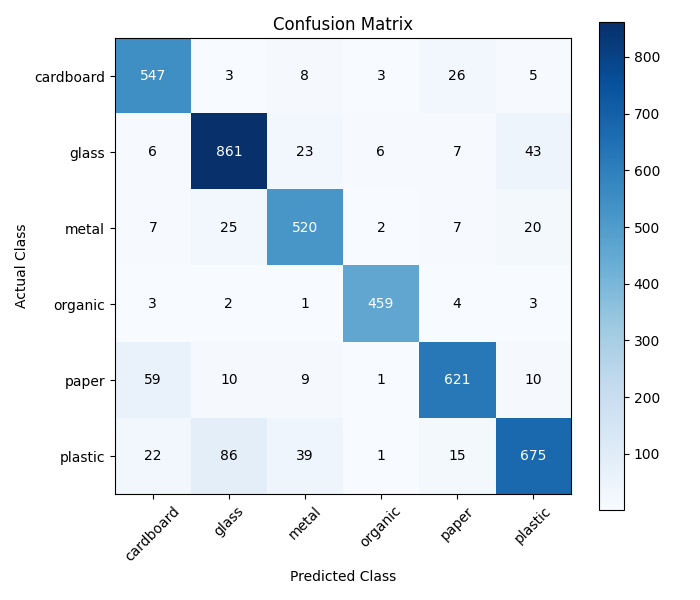
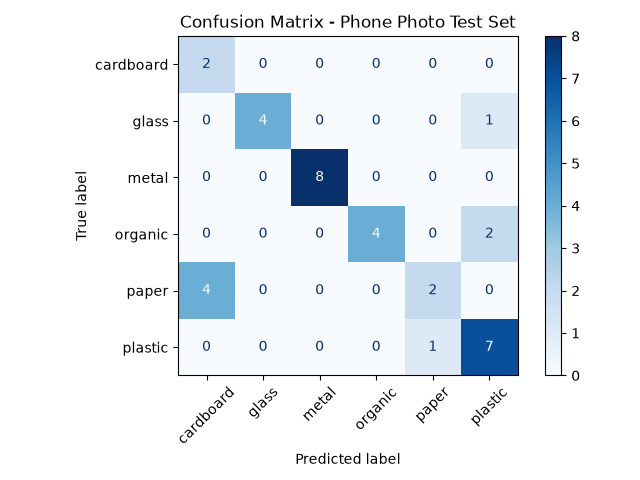
Implement model evaluation metrics (#15)

diff --git a/ml/evaluate_model.py b/ml/evaluate_model.py
@@ -1,80 +1,75 @@
+
 import numpy as np
 import tensorflow as tf
 from tensorflow import keras
 import matplotlib.pyplot as plt
 from pathlib import Path
-from sklearn.metrics import accuracy_score, classification_report
-
-
-# Folder where this Python file is located
-ML_DIR = Path(__file__).parent
+from sklearn.metrics import (
+    accuracy_score,
+    classification_report,
+    confusion_matrix,
+    ConfusionMatrixDisplay,
+)
 
 # Paths
-DATASET_PATH = ML_DIR / "dataset_mwcd"
-MODEL_PATH = ML_DIR / "waste_classifier_mwcd.keras"
+ML_DIR = Path(__file__).parent
+TEST_DATASET_PATH = ML_DIR / "test_dataset"
+MODEL_PATH = ML_DIR / "waste_classifier_mwcd_finetuned.keras"
+RESULTS_PATH = ML_DIR / "results"
 
 IMAGE_SIZE = (224, 224)
 BATCH_SIZE = 32
-SEED = 123
 
+# Class order must match the model's training classes
+class_names = [
+    "cardboard",
+    "glass",
+    "metal",
+    "organic",
+    "paper",
+    "plastic",
+]
 
-# Load validation data
-validation_dataset = keras.utils.image_dataset_from_directory(
-    DATASET_PATH,
-    validation_split=0.2,
-    subset="validation",
-    seed=SEED,
+# Load the phone-photo dataset.
+# Folder names provide the actual labels for each image.
+test_dataset = keras.utils.image_dataset_from_directory(
+    TEST_DATASET_PATH,
+    class_names=class_names,
     image_size=IMAGE_SIZE,
-    batch_size=BATCH_SIZE
+    batch_size=BATCH_SIZE,
+    shuffle=False,
 )
 
-class_names = validation_dataset.class_names
+# Load the trained model
+model = keras.models.load_model(MODEL_PATH)
 
+print("Model loaded successfully.")
 print("Classes:", class_names)
 
-
-# Load trained model
-model = keras.models.load_model(
-    MODEL_PATH
-)
-
-
-# Lists to store correct labels and model predictions
+# Collect actual labels and predictions
 actual_labels = []
 predicted_labels = []
 
+for images, labels in test_dataset:
+    probabilities = model.predict(images, verbose=0)
+    predictions = np.argmax(probabilities, axis=1)
 
-# Go through validation images
-for images, labels in validation_dataset:
+    actual_labels.extend(labels.numpy().tolist())
+    predicted_labels.extend(predictions.tolist())
 
-    predictions = model.predict(
-        images,
-        verbose=0
-    )
+actual_labels = np.array(actual_labels)
+predicted_labels = np.array(predicted_labels)
 
-    predictions = np.argmax(
-        predictions,
-        axis=1
-    )
+# Calculate overall metrics
+accuracy = accuracy_score(actual_labels, predicted_labels)
 
-    actual_labels.extend(
-        labels.numpy()
-    )
+print("\nEvaluation Results")
+print("==================")
+print(f"Number of images: {len(actual_labels)}")
+print(f"Overall accuracy: {accuracy * 100:.2f}%")
 
-    predicted_labels.extend(
-        predictions
-    )
-
-# Calculate overall evaluation metrics
-accuracy = accuracy_score(
-    actual_labels,
-    predicted_labels
-)
-
-print("\nOverall Evaluation Metrics:")
-print(f"Accuracy: {accuracy * 100:.2f}%")
-
-print("\nPrecision, Recall, and F1-Score:")
+print("\nPer-Class Precision, Recall, and F1-Score")
+print("=========================================")
 print(
     classification_report(
         actual_labels,
@@ -82,128 +77,51 @@ print(
         labels=list(range(len(class_names))),
         target_names=class_names,
         zero_division=0,
-        digits=4
+        digits=4,
     )
 )
 
-# Create confusion matrix
-matrix = tf.math.confusion_matrix(
+# Create results folder
+RESULTS_PATH.mkdir(parents=True, exist_ok=True)
+
+# Confusion matrix
+matrix = confusion_matrix(
     actual_labels,
     predicted_labels,
-    num_classes=len(class_names)
-).numpy()
+    labels=list(range(len(class_names))),
+)
 
-
-print("\nConfusion Matrix:")
+print("\nConfusion Matrix")
 print(matrix)
 
-
-# Calculate accuracy for each class
-print("\nPer-Class Accuracy:")
-
-accuracies = []
-
-for i in range(len(class_names)):
-
-    correct = matrix[i][i]
-    total = matrix[i].sum()
-
-    accuracy = (
-        correct / total
-    ) * 100
-
-    accuracies.append(accuracy)
-
-    print(
-        class_names[i],
-        f"{accuracy:.2f}%"
-    )
-
-
-# Create folder for result images
-RESULTS_PATH = ML_DIR / "results"
-RESULTS_PATH.mkdir(exist_ok=True)
-
-
-# Create and save per-class accuracy chart
-plt.figure(figsize=(8, 5))
-
-plt.bar(
-    class_names,
-    accuracies
+display = ConfusionMatrixDisplay(
+    confusion_matrix=matrix,
+    display_labels=class_names,
 )
+display.plot(cmap="Blues", xticks_rotation=45)
+plt.title("Confusion Matrix - Phone Photo Test Set")
+plt.tight_layout()
+plt.savefig(RESULTS_PATH / "confusion_matrix.png")
+plt.close()
 
+# Per-class accuracy: correct predictions / actual images in each class
+class_accuracies = []
+
+for i, class_name in enumerate(class_names):
+    total = matrix[i].sum()
+    correct = matrix[i, i]
+    class_accuracy = correct / total * 100 if total else 0.0
+    class_accuracies.append(class_accuracy)
+    print(f"{class_name}: {class_accuracy:.2f}% ({correct}/{total})")
+
+plt.figure(figsize=(8, 5))
+plt.bar(class_names, class_accuracies)
 plt.xlabel("Class")
 plt.ylabel("Accuracy (%)")
-plt.title("Per-Class Accuracy")
-
+plt.title("Per-Class Accuracy - Phone Photo Test Set")
 plt.ylim(0, 100)
-
 plt.tight_layout()
-
-plt.savefig(
-    RESULTS_PATH / "per_class_accuracy.png"
-)
-
+plt.savefig(RESULTS_PATH / "per_class_accuracy.png")
 plt.close()
 
-
-# Create and save confusion matrix image
-plt.figure(figsize=(7, 6))
-
-plt.imshow(
-    matrix,
-    cmap="Blues"
-)
-
-plt.colorbar()
-
-plt.title("Confusion Matrix")
-plt.xlabel("Predicted Class")
-plt.ylabel("Actual Class")
-
-plt.xticks(
-    range(len(class_names)),
-    class_names,
-    rotation=45
-)
-
-plt.yticks(
-    range(len(class_names)),
-    class_names
-)
-
-
-# Change number color depending on background
-threshold = matrix.max() / 2
-
-for i in range(len(class_names)):
-
-    for j in range(len(class_names)):
-
-        if matrix[i][j] > threshold:
-            text_color = "white"
-        else:
-            text_color = "black"
-
-        plt.text(
-            j,
-            i,
-            matrix[i][j],
-            ha="center",
-            va="center",
-            color=text_color
-        )
-
-
-plt.tight_layout()
-
-plt.savefig(
-    RESULTS_PATH / "confusion_matrix.png"
-)
-
-plt.close()
-
-
-print("\nResult images saved in:")
-print(RESULTS_PATH)
+print(f"\nResult images saved in: {RESULTS_PATH}")

diff --git a/ml/results/evaluation_results.md b/ml/results/evaluation_results.md
@@ -1,0 +1,70 @@
+# Model Evaluation Results
+
+## Overview
+
+The evaluation script was run on 35 labelled images from the test dataset to assess the performance of the trained waste classification model.
+
+- **Model:** Fine-tuned MobileNetV2
+- **Number of test images:** 35
+- **Number of classes:** 6
+- **Image size:** 224 × 224 pixels
+- **Evaluation script:** `ml/evaluate_model.py`
+
+## Overall Evaluation Metrics
+
+| Metric | Result |
+|---|---:|
+| Accuracy | 77.14% |
+| Macro precision | 78.33% |
+| Macro recall | 77.92% |
+| Macro F1-score | 73.52% |
+| Weighted precision | 83.62% |
+| Weighted recall | 77.14% |
+| Weighted F1-score | 77.52% |
+
+The model correctly classified 27 out of 35 test images.
+
+## Per-Class Results
+
+| Class | Correct Predictions | Total Images | Accuracy |
+|---|---:|---:|---:|
+| Cardboard | 2 | 2 | 100.00% |
+| Glass | 4 | 5 | 80.00% |
+| Metal | 8 | 8 | 100.00% |
+| Organic | 4 | 6 | 66.67% |
+| Paper | 2 | 6 | 33.33% |
+| Plastic | 7 | 8 | 87.50% |
+
+## Confusion Matrix
+
+Rows represent actual classes, and columns represent predicted classes. Class order: cardboard, glass, metal, organic, paper, plastic.
+
+| Actual / Predicted | Cardboard | Glass | Metal | Organic | Paper | Plastic |
+|---|---:|---:|---:|---:|---:|---:|
+| Cardboard | 2 | 0 | 0 | 0 | 0 | 0 |
+| Glass | 0 | 4 | 0 | 0 | 0 | 1 |
+| Metal | 0 | 0 | 8 | 0 | 0 | 0 |
+| Organic | 0 | 0 | 0 | 4 | 0 | 2 |
+| Paper | 4 | 0 | 0 | 0 | 2 | 0 |
+| Plastic | 0 | 0 | 0 | 0 | 1 | 7 |
+
+## Observations
+
+- Metal achieved 100% accuracy on 8 test images.
+- Cardboard achieved 100% accuracy on 2 test images; the small sample size limits this result.
+- Paper had the lowest accuracy at 33.33%. Four paper images were classified as cardboard.
+- Organic achieved 66.67% accuracy, with two images classified as plastic.
+- The results indicate that paper and organic classification need further investigation.
+
+These results are preliminary because the test dataset contains only 35 images.
+
+## Generated Result Files
+
+- `confusion_matrix.png` — visual representation of correct and incorrect predictions.
+- `per_class_accuracy.png` — accuracy for each of the six classes.
+
+Both files are stored in the `ml/results/` directory.
+
+## Evaluation Scope
+
+These metrics describe performance on the test dataset. They are separate from validation results on the original dataset. Validation evaluation remains pending because the expected `dataset_mwcd` directory was not found.
